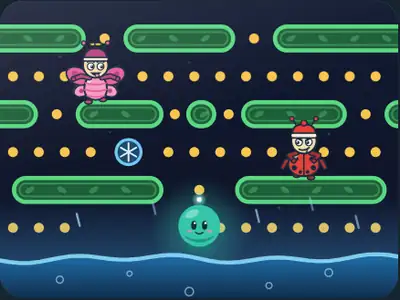
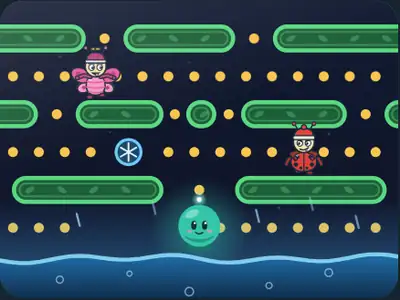
Glowberry's and Crumbtrail's bugs are smaller, as Ramsey said ("the bugs might be a little too big though"): 1.1 tiles tall in Glowberry, down from 1.3, and 1.05 in Crumbtrail, down from 1.25. They sit inside their lanes now, Shady's legs included. The card art and the coming-soon pictures match.

Changed region(s): [[0.15, 0.12, 0.33, 0.36], [0.69, 0.39, 0.84, 0.6]]

diff --git a/src/components/GameArt.tsx b/src/components/GameArt.tsx
@@ -600,8 +600,8 @@ function Pellets({ id }: { id: Id }) {
           <circle key={x} cx={x} cy="1.5" r={r * (0.35 + 0.5 * life)} fill={hsl(42, 92, 60, 0.2 * life)} />
         ))}
         <Glow id={id} name="lamp" cx={3.7} cy={1.5} r={r * 2.6} colour={hsl(168, 90, 60)} strength={0.26} />
-        <MazeBug name="snatch" x={1.5} y={4.55} size={1.3} pose={{ state: 'normal', look: [0, -1], step: 0 }} />
-        <MazeBug name="sly" x={7.5} y={3.45} size={1.3} pose={{ state: 'normal', look: [-1, 0], step: 1 }} />
+        <MazeBug name="snatch" x={1.5} y={4.55} size={1.1} pose={{ state: 'normal', look: [0, -1], step: 0 }} />
+        <MazeBug name="sly" x={7.5} y={3.45} size={1.1} pose={{ state: 'normal', look: [-1, 0], step: 1 }} />
         {/* Blip, headed left for the glowberry. */}
         <Blip id={id} name="blip" x={3.7} y={1.43} s={r / 7.35} c={BLIP_MINT} />
       </g>
@@ -978,8 +978,8 @@ function Crumbtrail({ id }: { id: Id }) {
       ))}
       <circle cx="12.9" cy="15.2" r="1.25" fill={hsl(200, 80, 55, 0.35)} stroke={hsl(200, 85, 70)} strokeWidth="0.3" />
       <path d="M12.9 14.3 V16.1 M12.12 14.75 L13.68 15.65 M12.12 15.65 L13.68 14.75" {...line('#fff', 0.18, 0.9)} />
-      <MazeBug name="pester" x={9.6} y={7.2} size={6} pose={{ state: 'normal', look: [1, 0.3], step: 0, t: 0.1 }} />
-      <MazeBug name="snatch" x={30.5} y={14.8} size={6} pose={{ state: 'normal', look: [-1, 0.4], step: 1 }} />
+      <MazeBug name="pester" x={9.6} y={7.2} size={5} pose={{ state: 'normal', look: [1, 0.3], step: 0, t: 0.1 }} />
+      <MazeBug name="snatch" x={30.5} y={14.8} size={5} pose={{ state: 'normal', look: [-1, 0.4], step: 1 }} />
       <rect x="-1" y="19.6" width="42" height="6.8" fill={`url(#${id('warn')})`} />
       <Glow id={id} name="lamp" cx={20} cy={22.8} r={5} colour={hsl(168, 90, 60)} strength={0.4} />
       <Blip id={id} name="blip" x={20} y={22.6 - 1.26 * (2.1 / 7.35)} s={2.1 / 7.35} c={BLIP_MINT} />

diff --git a/src/games/crumbtrail/render.ts b/src/games/crumbtrail/render.ts
@@ -38,7 +38,7 @@ const WATER_HUE = 205
 /** Which bug each chaser is. */
 const BUG_OF: Record<GhostKind, BugName> = { blink: 'snatch', pink: 'sly', herd: 'pester', inky: 'shady', clyde: 'grumble', train: 'car' }
 /** A bug's height, in tiles, and a caterpillar car's: a car is one round segment. */
-const BUG_SIZE = 1.25
+const BUG_SIZE = 1.05
 const CAR_SIZE = 0.95
 /** The site's own face, at a weight it loads; a canvas can't read the CSS variable. */
 const FONT = '"Outfit", system-ui, sans-serif'

diff --git a/src/games/pellets/render.ts b/src/games/pellets/render.ts
@@ -45,7 +45,7 @@ const GATE_HUE = 32
 /** Which bug each chaser is. */
 const BUG_OF: Record<GhostKind, BugName> = { blink: 'snatch', pink: 'sly', inky: 'shady', clyde: 'grumble' }
 /** A bug's height, in tiles: its hat and feelers stand over its tile a little. */
-const BUG_SIZE = 1.3
+const BUG_SIZE = 1.1
 
 const LOOK: Record<Dir, { x: number; y: number }> = {
   up: { x: 0, y: -1 },
